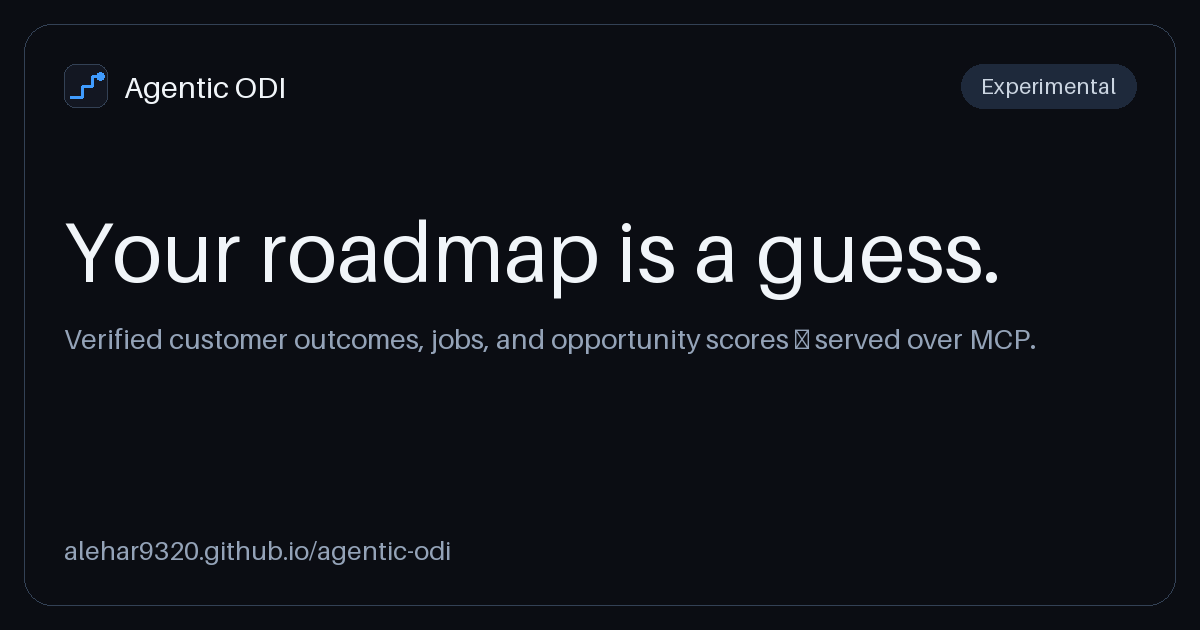
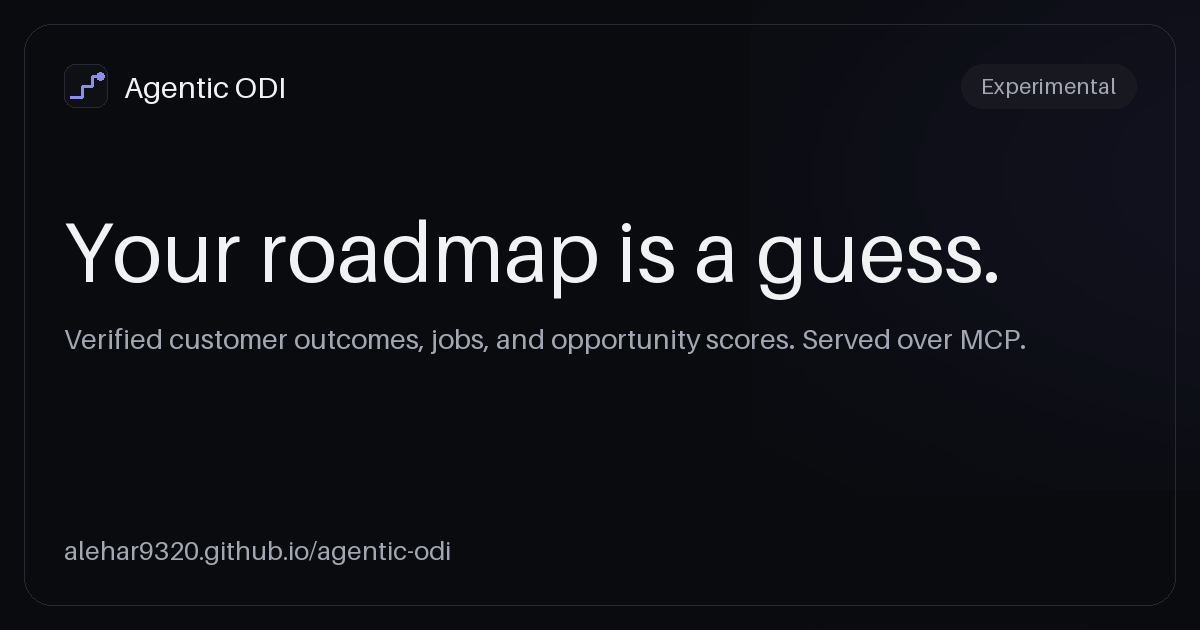
feat(website): repaint the social card and the mark in the site palette
The card now carries the site's own canvas washes, so a shared link looks
like the page it points to. The em dash was rendering as a tofu box -
Pillow's built-in font has no such glyph - so the card stays ASCII.

The mark and favicon are byte-identical to each other and use the Studio's
indigo on the Studio's raised surface.

Entire-Checkpoint: 01M5HZCMJP14CMM6AFQJAJHFAW

Changed region(s): [[0.8017, 0.0905, 0.9558, 0.181], [0.6475, 0.5127, 0.8633, 0.573], [0.0617, 0.1206, 0.0925, 0.181]]

diff --git a/website/tools/make_og.py b/website/tools/make_og.py
@@ -21,17 +21,22 @@ OG_SIZE = (1200, 630)
 FAVICON_SIZE = (32, 32)
 
 DEFAULT_HEADLINE = "Your roadmap is a guess."
-DEFAULT_SUBHEAD = "Verified customer outcomes, jobs, and opportunity scores — served over MCP."
+# Pillow's built-in font has no em dash, so the card stays ASCII.
+DEFAULT_SUBHEAD = "Verified customer outcomes, jobs, and opportunity scores. Served over MCP."
 DEFAULT_URL = "alehar9320.github.io/agentic-odi"
 
-CANVAS = (11, 13, 19)  # #0b0d13
-SURFACE = (19, 23, 34)  # #131722
-TEXT = (241, 245, 249)  # #f1f5f9
-MUTED = (148, 163, 184)  # #94a3b8
-ACCENT = (64, 156, 255)  # #409cff
-BADGE_FG = (203, 213, 225)  # #cbd5e1
-BADGE_BG = (30, 41, 59)  # #1e293b
-HAIRLINE = (51, 65, 85)  # #334155
+# The site's palette, taken from the Living Studio's own theme so the social
+# card and the site are the same colour.
+CANVAS = (10, 11, 14)  # --bg
+SURFACE = (14, 16, 20)  # --bg-raised
+TEXT = (241, 242, 244)  # --text
+MUTED = (162, 167, 179)  # --muted
+FAINT = (113, 118, 127)  # --faint
+ACCENT = (139, 140, 248)  # --accent
+ACCENT_STRONG = (99, 102, 241)  # --accent-strong
+BADGE_FG = (162, 167, 179)  # --muted
+BADGE_BG = (24, 24, 32)  # a raised chip on the canvas
+HAIRLINE = (38, 42, 52)  # a visible hairline on the canvas
 
 MARGIN = 64
 PILL_LABEL = "Experimental"
@@ -99,6 +104,39 @@ def _draw_pill(draw: ImageDraw.ImageDraw, label: str, right: int, cy: int) -> No
     draw.text(((x0 + x1) / 2, cy), label, font=font, fill=BADGE_FG, anchor="mm")
 
 
+def _wash(size: tuple[int, int], color: tuple[int, int, int], center: tuple[float, float],
+          radius: float, strength: int) -> tuple[Image.Image, Image.Image]:
+    """A soft radial wash, drawn small and scaled up.
+
+    The site's canvas carries two of these. Reproducing them keeps the social
+    card looking like the page it links to.
+    """
+    small = 180
+    mask = Image.new("L", (small, small), 0)
+    painter = ImageDraw.Draw(mask)
+    steps = 48
+    for step in range(steps, 0, -1):
+        fraction = step / steps
+        extent = small * radius * fraction
+        value = int(strength * (1 - fraction))
+        painter.ellipse(
+            (
+                small / 2 - extent,
+                small / 2 - extent,
+                small / 2 + extent,
+                small / 2 + extent,
+            ),
+            fill=value,
+        )
+    mask = mask.resize(size, Image.LANCZOS)
+    layer = Image.new("RGB", size, color)
+    offset = (
+        int(center[0] * size[0] - small * radius / 2),
+        int(center[1] * size[1] - small * radius / 2),
+    )
+    return layer, mask, offset
+
+
 def _to_png(image: Image.Image) -> bytes:
     buffer = io.BytesIO()
     image.save(buffer, format="PNG", compress_level=9, optimize=True)
@@ -113,6 +151,15 @@ def render(
     """Render the 1200x630 social card and return its PNG bytes."""
     width, height = OG_SIZE
     image = Image.new("RGB", OG_SIZE, CANVAS)
+
+    # The site's two canvas washes, in the same places.
+    for color, center, radius, strength in (
+        (ACCENT_STRONG, (0.50, 1.08), 0.62, 26),
+        (ACCENT_STRONG, (0.68, -0.12), 0.72, 22),
+    ):
+        layer, mask, offset = _wash(OG_SIZE, color, center, radius, strength)
+        image.paste(layer, offset, mask)
+
     draw = ImageDraw.Draw(image)
 
     draw.rounded_rectangle((24, 24, width - 25, height - 25), radius=28, outline=HAIRLINE, width=1)

diff --git a/website/tests/test_make_og.py b/website/tests/test_make_og.py
@@ -42,6 +42,34 @@ def test_cli_writes_both_files_to_out_dir(tmp_path):
     assert _dims((tmp_path / "favicon.png").read_bytes()) == (32, 32)
 
 
+def test_og_card_uses_the_site_palette():
+    m = _load()
+    assert m.CANVAS == (10, 11, 14)  # --bg
+    assert m.SURFACE == (14, 16, 20)  # --bg-raised
+    assert m.TEXT == (241, 242, 244)  # --text
+    assert m.ACCENT == (139, 140, 248)  # --accent
+
+
+def test_the_card_stays_within_ascii():
+    # Pillow's built-in font has no em dash, and a missing glyph renders as a
+    # tofu box on the card.
+    m = _load()
+    assert m.DEFAULT_HEADLINE.isascii()
+    assert m.DEFAULT_SUBHEAD.isascii()
+
+
+def test_the_mark_svg_matches_the_favicon_svg():
+    mark = (ASSETS / "mark.svg").read_bytes()
+    favicon = (ASSETS / "favicon.svg").read_bytes()
+    assert mark == favicon
+
+
+def test_the_mark_svg_uses_the_site_palette():
+    mark = (ASSETS / "mark.svg").read_text(encoding="utf-8")
+    assert "#8b8cf8" in mark
+    assert "#0e1014" in mark
+
+
 def test_committed_art_matches_generator():
     """Regenerate committed PNGs (uv run python website/tools/make_og.py) whenever the script changes."""
     from PIL import Image
